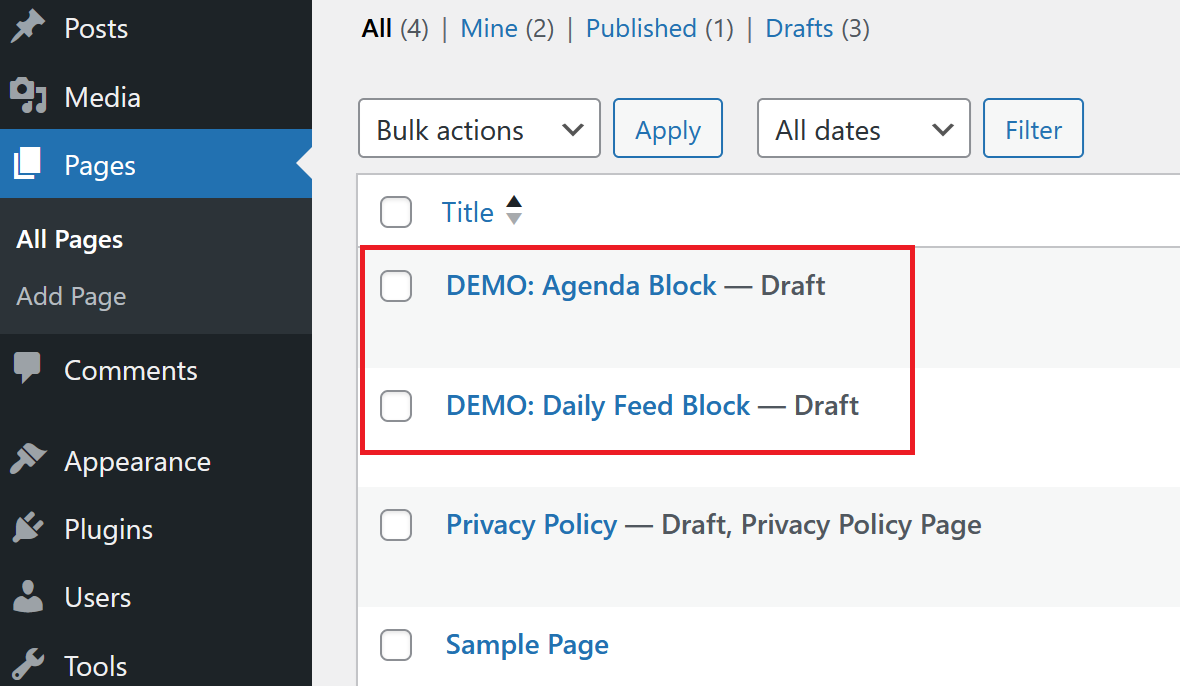
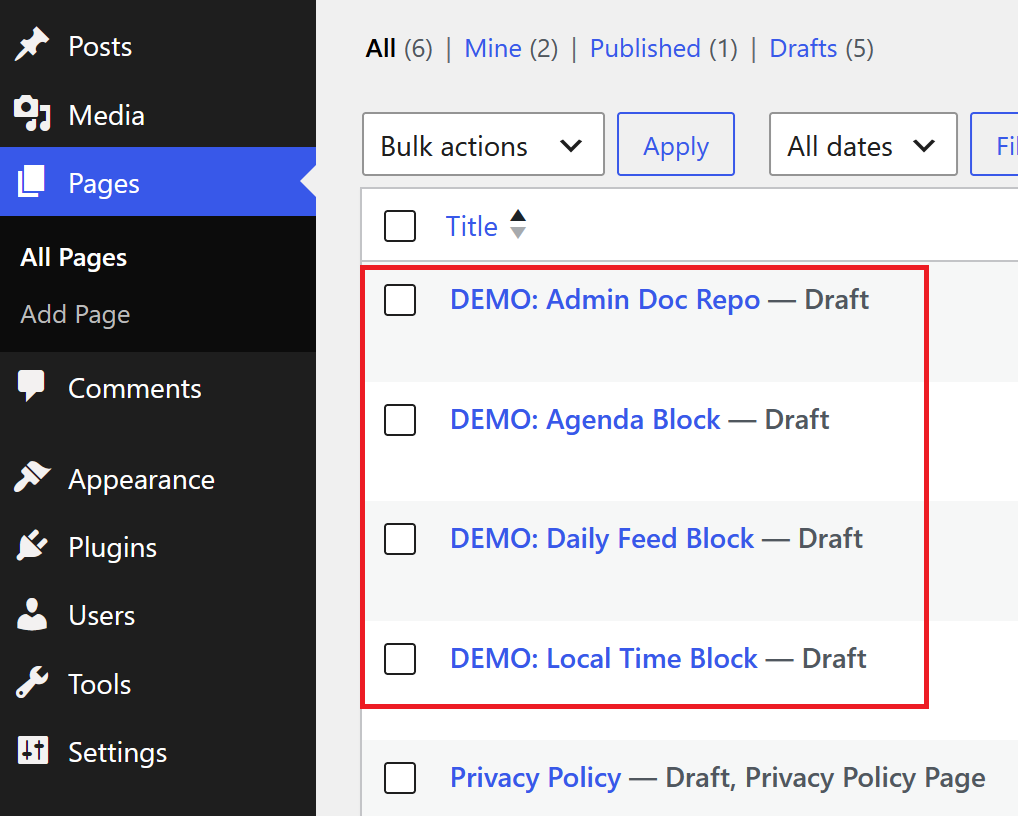
Include admin-doc-repo in wp demo #personal_site

Changed region(s): [[0.0, 0.0, 1.0, 1.0], [0.0, 0.7347, 0.1827, 1.0], [0.0, 0.6429, 0.1827, 0.7041]]

diff --git a/views/admin-doc-repo.html b/views/admin-doc-repo.html
@@ -156,7 +156,8 @@
           Each file supports multiple expense rows — category, submitter, date,
           and amount — for cases where a single document contains multiple
           receipts. Rows are added, edited, and removed inline with optimistic
-          updates and automatic revert on failure.
+          updates and automatic revert on failure. Optional input to select 
+          expenses to include / ignore for reimbursement.
         </div>
       </div>
 
@@ -178,7 +179,7 @@
           Deleted files are moved to a server-side trash directory rather than
           permanently removed. A trash panel shows original filename, deletion
           date, and full expense metadata at time of deletion, with a one-click
-          restore. Orphaned trash entries are automatically pruned on panel load.
+          restore. Orphaned trash entries are automatically pruned after 30 days.
         </div>
       </div>
 